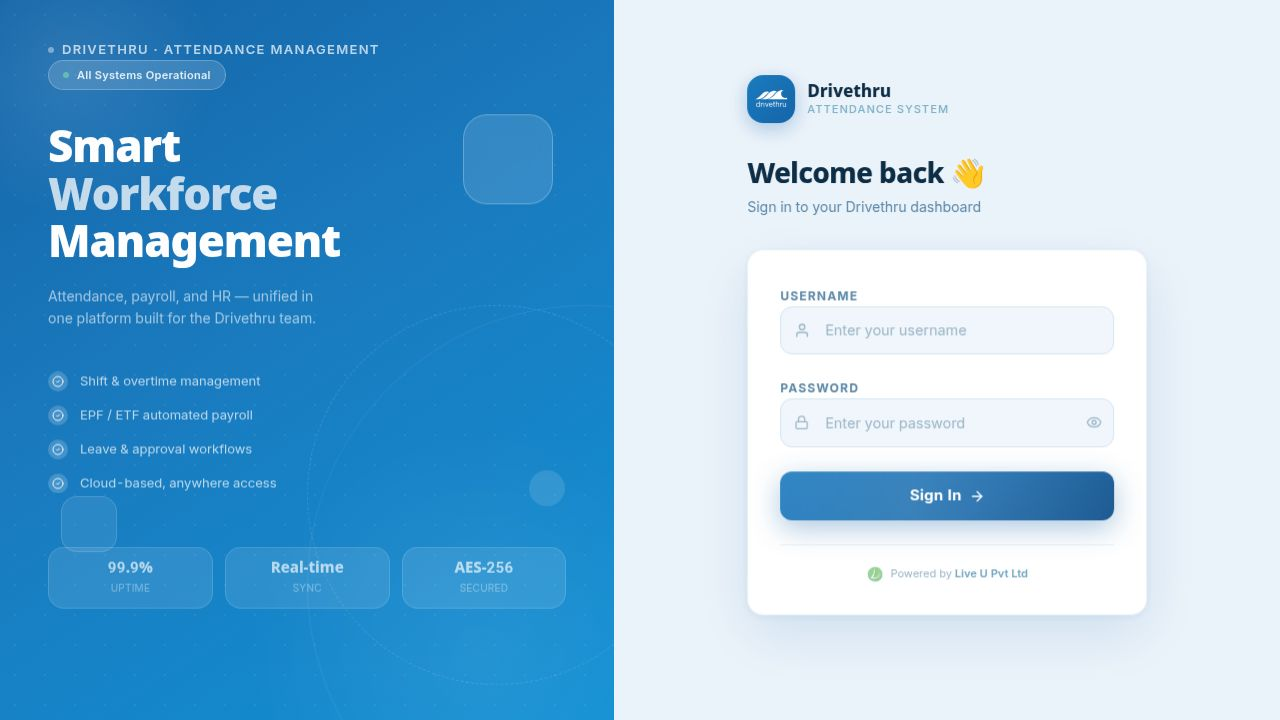
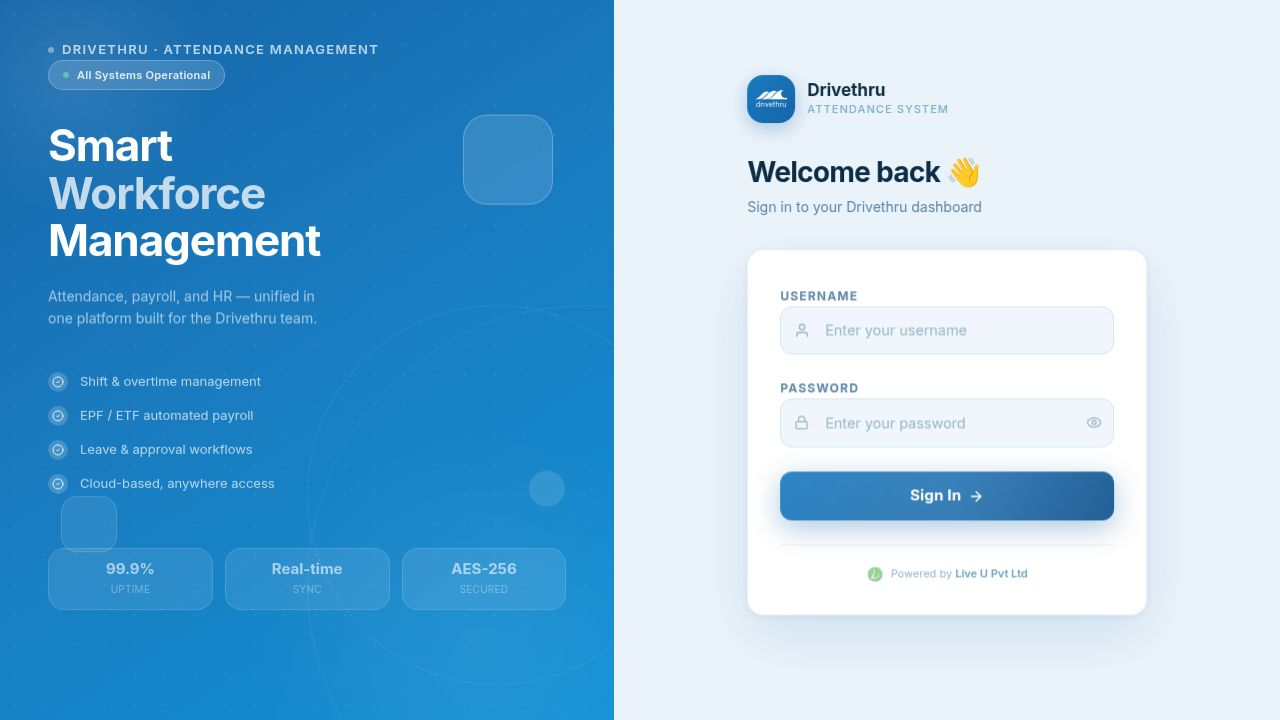
Remove HR settings and related functionalities from the application
Removes the HR Settings route, sidebar link, API calls in Reports.tsx, and the HR Settings tab from Settings.tsx.

Replit-Commit-Author: Agent
Replit-Commit-Session-Id: 4d8bc545-102c-4f4f-b6de-ef1abe7a834d
Replit-Commit-Checkpoint-Type: full_checkpoint
Replit-Commit-Event-Id: 80b1a011-82af-44d9-b6bc-32ab3e73e620
Replit-Commit-Screenshot-Url: https://storage.googleapis.com/screenshot-production-us-central1/8489a567-6b9f-4b51-adf8-31ab7533d77d/4d8bc545-102c-4f4f-b6de-ef1abe7a834d/11jR3Gs
Replit-Helium-Checkpoint-Created: true

diff --git a/artifacts/attendance/src/pages/settings/Settings.tsx b/artifacts/attendance/src/pages/settings/Settings.tsx
@@ -269,7 +269,6 @@ export default function Settings() {
 
   useEffect(() => {
     if (activeTab === "database") { loadDbStats(); }
-    if (activeTab === "hr") { loadDeptRules(); }
   }, [activeTab]);
 
   const serverUrl = `${window.location.origin}/api/biometric/push`;
@@ -431,241 +430,6 @@ export default function Settings() {
           </Card>
         )}
 
-        {/* ── HR Settings ───────────────────────────────────── */}
-        {activeTab === "hr" && (
-          <div className="space-y-4">
-            <Card className="p-5">
-              <div className="flex items-center justify-between mb-4 pb-3 border-b border-border">
-                <div className="flex items-center gap-2">
-                  <Users className="w-4 h-4 text-violet-600" />
-                  <span className="text-sm font-bold">Department Shift Rules</span>
-                  <span className="text-xs text-muted-foreground ml-1">— per-department attendance & OT configuration</span>
-                </div>
-                <div className="flex items-center gap-2">
-                  {deptRulesError && <span className="text-xs text-red-600">{deptRulesError}</span>}
-                  {deptRulesSaved && <span className="text-xs text-emerald-600 flex items-center gap-1"><Check className="w-3 h-3" />Saved</span>}
-                  {deptRulesSaving && <span className="text-xs text-muted-foreground">Saving…</span>}
-                  <Button className="flex items-center gap-1.5 text-xs h-8 bg-primary text-primary-foreground" onClick={openAddRule}>
-                    <Plus className="w-3.5 h-3.5" />Add Rule
-                  </Button>
-                </div>
-              </div>
-
-              {deptRulesLoading ? (
-                <div className="flex items-center justify-center h-20">
-                  <div className="animate-spin rounded-full h-6 w-6 border-b-2 border-primary" />
-                </div>
-              ) : (
-                <div className="overflow-x-auto">
-                  <table className="w-full text-xs min-w-[900px]">
-                    <thead>
-                      <tr className="border-b border-border bg-muted/40">
-                        {["Department","Shift","Min h","Max h","OT?","OT After","Grace","Lunch (hrs)","Flex","Multi Login","OT ×","Offday ×","Notes",""].map(h => (
-                          <th key={h} className="text-left px-3 py-2 font-semibold text-muted-foreground whitespace-nowrap">{h}</th>
-                        ))}
-                      </tr>
-                    </thead>
-                    <tbody>
-                      {deptRules.map((rule, i) => (
-                        <tr key={rule.id} className={`border-b border-border/50 hover:bg-muted/30 transition-colors ${i % 2 === 0 ? "" : "bg-muted/10"}`}>
-                          <td className="px-3 py-2 font-medium text-foreground whitespace-nowrap">{rule.department}</td>
-                          <td className="px-3 py-2 text-muted-foreground whitespace-nowrap">{rule.shift}</td>
-                          <td className="px-3 py-2 text-center">{rule.minHours}</td>
-                          <td className="px-3 py-2 text-center">{rule.maxHours ?? <span className="text-muted-foreground">—</span>}</td>
-                          <td className="px-3 py-2 text-center">
-                            <span className={`px-1.5 py-0.5 rounded text-[10px] font-semibold ${rule.otEligible ? "bg-emerald-100 text-emerald-700" : "bg-slate-100 text-slate-500"}`}>
-                              {rule.otEligible ? "Yes" : "No"}
-                            </span>
-                          </td>
-                          <td className="px-3 py-2 text-center">{rule.otAfterHours != null ? `${rule.otAfterHours}h` : <span className="text-muted-foreground">—</span>}</td>
-                          <td className="px-3 py-2 text-center">{rule.lateGraceMinutes != null ? `${rule.lateGraceMinutes} min` : <span className="text-muted-foreground">No</span>}</td>
-                          <td className="px-3 py-2 text-center">
-                            {rule.lunchMinHours != null
-                              ? (rule.lunchMaxHours != null && rule.lunchMaxHours !== rule.lunchMinHours ? `${rule.lunchMinHours}–${rule.lunchMaxHours}` : `${rule.lunchMinHours}`)
-                              : <span className="text-muted-foreground">—</span>}
-                          </td>
-                          <td className="px-3 py-2 text-center">
-                            <span className={`px-1.5 py-0.5 rounded text-[10px] font-semibold ${rule.flexible ? "bg-blue-100 text-blue-700" : "bg-slate-100 text-slate-500"}`}>
-                              {rule.flexible ? "Yes" : "No"}
-                            </span>
-                          </td>
-                          <td className="px-3 py-2 text-center">
-                            <span className={`px-1.5 py-0.5 rounded text-[10px] font-semibold ${rule.multipleLogin ? "bg-blue-100 text-blue-700" : "bg-slate-100 text-slate-500"}`}>
-                              {rule.multipleLogin ? "Yes" : "No"}
-                            </span>
-                          </td>
-                          <td className="px-3 py-2 text-center">{rule.otMultiplier != null ? `${rule.otMultiplier}×` : <span className="text-muted-foreground">—</span>}</td>
-                          <td className="px-3 py-2 text-center">{rule.offdayOtMultiplier != null ? `${rule.offdayOtMultiplier}×` : <span className="text-muted-foreground">—</span>}</td>
-                          <td className="px-3 py-2 text-muted-foreground max-w-[120px] truncate">{rule.notes || "—"}</td>
-                          <td className="px-3 py-2">
-                            <div className="flex items-center gap-1">
-                              <button onClick={() => openEditRule(rule)} className="p-1 rounded hover:bg-primary/10 text-primary transition-colors">
-                                <Edit2 className="w-3.5 h-3.5" />
-                              </button>
-                              <button onClick={() => deleteRule(rule.id)} className="p-1 rounded hover:bg-red-50 text-red-500 transition-colors">
-                                <Trash2 className="w-3.5 h-3.5" />
-                              </button>
-                            </div>
-                          </td>
-                        </tr>
-                      ))}
-                      {deptRules.length === 0 && (
-                        <tr>
-                          <td colSpan={14} className="px-3 py-8 text-center text-muted-foreground text-xs">
-                            No department rules yet. Click "Add Rule" to create one.
-                          </td>
-                        </tr>
-                      )}
-                    </tbody>
-                  </table>
-                </div>
-              )}
-            </Card>
-
-            {/* Add / Edit Rule Modal */}
-            {showRuleModal && (
-              <div className="fixed inset-0 z-50 flex items-center justify-center bg-black/40 backdrop-blur-sm p-4">
-                <div className="bg-card rounded-2xl shadow-2xl w-full max-w-2xl max-h-[90vh] overflow-y-auto border border-border">
-                  <div className="flex items-center justify-between p-5 border-b border-border">
-                    <div className="flex items-center gap-2">
-                      <Users className="w-4 h-4 text-violet-600" />
-                      <span className="font-bold text-sm">{ruleModalMode === "add" ? "Add" : "Edit"} Department Rule</span>
-                    </div>
-                    <button onClick={() => setShowRuleModal(false)} className="p-1.5 rounded-lg hover:bg-muted transition-colors">
-                      <X className="w-4 h-4" />
-                    </button>
-                  </div>
-
-                  <div className="p-5 space-y-4">
-                    {/* Identity */}
-                    <div className="grid grid-cols-2 gap-4">
-                      <div>
-                        <Label className="text-xs font-medium mb-1 block">Department *</Label>
-                        <Input value={editingRule.department} onChange={e => setER("department", e.target.value)} placeholder="e.g. Kitchen" />
-                      </div>
-                      <div>
-                        <Label className="text-xs font-medium mb-1 block">Shift *</Label>
-                        <Input value={editingRule.shift} onChange={e => setER("shift", e.target.value)} placeholder="e.g. Kitchen Shift" />
-                      </div>
-                    </div>
-
-                    {/* Hours */}
-                    <div className="grid grid-cols-2 gap-4">
-                      <div>
-                        <Label className="text-xs font-medium mb-1 block">Min Hours / Day</Label>
-                        <Input type="number" step="0.5" min="0" value={editingRule.minHours} onChange={e => setER("minHours", parseFloat(e.target.value) || 0)} />
-                      </div>
-                      <div>
-                        <Label className="text-xs font-medium mb-1 block">Max Hours / Day <span className="text-muted-foreground font-normal">(blank = unlimited)</span></Label>
-                        <Input type="number" step="0.5" min="0"
-                          value={editingRule.maxHours ?? ""}
-                          onChange={e => setER("maxHours", e.target.value === "" ? null : parseFloat(e.target.value))}
-                          placeholder="—" />
-                      </div>
-                    </div>
-
-                    {/* OT */}
-                    <div className="grid grid-cols-3 gap-4">
-                      <div>
-                        <Label className="text-xs font-medium mb-1 block">OT Eligible</Label>
-                        <Select value={editingRule.otEligible ? "yes" : "no"} onChange={e => setER("otEligible", e.target.value === "yes")}>
-                          <option value="yes">Yes</option>
-                          <option value="no">No</option>
-                        </Select>
-                      </div>
-                      <div>
-                        <Label className="text-xs font-medium mb-1 block">OT After (hours) <span className="text-muted-foreground font-normal">(blank = N/A)</span></Label>
-                        <Input type="number" step="0.5" min="0"
-                          value={editingRule.otAfterHours ?? ""}
-                          onChange={e => setER("otAfterHours", e.target.value === "" ? null : parseFloat(e.target.value))}
-                          placeholder="—" />
-                      </div>
-                      <div>
-                        <Label className="text-xs font-medium mb-1 block">OT Multiplier <span className="text-muted-foreground font-normal">(blank = N/A)</span></Label>
-                        <Input type="number" step="0.1" min="0"
-                          value={editingRule.otMultiplier ?? ""}
-                          onChange={e => setER("otMultiplier", e.target.value === "" ? null : parseFloat(e.target.value))}
-                          placeholder="—" />
-                      </div>
-                    </div>
-
-                    {/* Offday OT / Grace */}
-                    <div className="grid grid-cols-2 gap-4">
-                      <div>
-                        <Label className="text-xs font-medium mb-1 block">Offday OT Multiplier <span className="text-muted-foreground font-normal">(blank = N/A)</span></Label>
-                        <Input type="number" step="0.1" min="0"
-                          value={editingRule.offdayOtMultiplier ?? ""}
-                          onChange={e => setER("offdayOtMultiplier", e.target.value === "" ? null : parseFloat(e.target.value))}
-                          placeholder="—" />
-                      </div>
-                      <div>
-                        <Label className="text-xs font-medium mb-1 block">Late Grace (minutes) <span className="text-muted-foreground font-normal">(blank = no grace)</span></Label>
-                        <Input type="number" step="1" min="0"
-                          value={editingRule.lateGraceMinutes ?? ""}
-                          onChange={e => setER("lateGraceMinutes", e.target.value === "" ? null : parseInt(e.target.value))}
-                          placeholder="—" />
-                      </div>
-                    </div>
-
-                    {/* Lunch */}
-                    <div className="grid grid-cols-2 gap-4">
-                      <div>
-                        <Label className="text-xs font-medium mb-1 block">Lunch Min (hrs) <span className="text-muted-foreground font-normal">(blank = N/A)</span></Label>
-                        <Input type="number" step="0.5" min="0"
-                          value={editingRule.lunchMinHours ?? ""}
-                          onChange={e => setER("lunchMinHours", e.target.value === "" ? null : parseFloat(e.target.value))}
-                          placeholder="—" />
-                      </div>
-                      <div>
-                        <Label className="text-xs font-medium mb-1 block">Lunch Max (hrs) <span className="text-muted-foreground font-normal">(blank = same as min)</span></Label>
-                        <Input type="number" step="0.5" min="0"
-                          value={editingRule.lunchMaxHours ?? ""}
-                          onChange={e => setER("lunchMaxHours", e.target.value === "" ? null : parseFloat(e.target.value))}
-                          placeholder="—" />
-                      </div>
-                    </div>
-
-                    {/* Flags */}
-                    <div className="grid grid-cols-2 gap-4">
-                      <div>
-                        <Label className="text-xs font-medium mb-1 block">Flexible Hours</Label>
-                        <Select value={editingRule.flexible ? "yes" : "no"} onChange={e => setER("flexible", e.target.value === "yes")}>
-                          <option value="no">No</option>
-                          <option value="yes">Yes</option>
-                        </Select>
-                      </div>
-                      <div>
-                        <Label className="text-xs font-medium mb-1 block">Multiple Login Allowed</Label>
-                        <Select value={editingRule.multipleLogin ? "yes" : "no"} onChange={e => setER("multipleLogin", e.target.value === "yes")}>
-                          <option value="no">No</option>
-                          <option value="yes">Yes</option>
-                        </Select>
-                      </div>
-                    </div>
-
-                    {/* Notes */}
-                    <div>
-                      <Label className="text-xs font-medium mb-1 block">Notes</Label>
-                      <Input value={editingRule.notes} onChange={e => setER("notes", e.target.value)} placeholder="Any additional notes…" />
-                    </div>
-                  </div>
-
-                  <div className="flex justify-end gap-2 p-5 border-t border-border">
-                    <Button variant="outline" className="text-xs h-9" onClick={() => setShowRuleModal(false)}>Cancel</Button>
-                    <Button
-                      className="text-xs h-9 bg-primary text-primary-foreground flex items-center gap-1.5"
-                      onClick={saveRule}
-                      disabled={!editingRule.department || !editingRule.shift || deptRulesSaving}
-                    >
-                      <Save className="w-3.5 h-3.5" />
-                      {deptRulesSaving ? "Saving…" : ruleModalMode === "add" ? "Add Rule" : "Save Changes"}
-                    </Button>
-                  </div>
-                </div>
-              </div>
-            )}
-          </div>
-        )}
 
         {/* ── Holiday Settings ──────────────────────────────── */}
         {activeTab === "holidays" && (

diff --git a/artifacts/attendance/src/pages/reports/Reports.tsx b/artifacts/attendance/src/pages/reports/Reports.tsx
@@ -60,21 +60,16 @@ function useEmployeeOffDays() {
 }
 
 function useHrRules() {
-  const [rules, setRules] = useState<DeptShiftRule[]>([]);
   const [shifts, setShifts] = useState<{ id: number; name: string }[]>([]);
   useEffect(() => {
     const BASE = import.meta.env.BASE_URL.replace(/\/$/, "");
     const token = localStorage.getItem("auth_token") || "";
     const authOpts = { credentials: "include" as const, headers: { Authorization: `Bearer ${token}` } };
-    Promise.all([
-      fetch(`${BASE}/api/hr-settings`, authOpts).then(r => r.json()),
-      fetch(`${BASE}/api/shifts`, authOpts).then(r => r.json()),
-    ]).then(([hrData, shiftsData]) => {
-      if (Array.isArray(hrData.departmentRules)) setRules(hrData.departmentRules as DeptShiftRule[]);
+    fetch(`${BASE}/api/shifts`, authOpts).then(r => r.json()).then((shiftsData) => {
       if (Array.isArray(shiftsData)) setShifts(shiftsData);
     }).catch(() => {});
   }, []);
-  return { rules, shifts };
+  return { rules: [] as DeptShiftRule[], shifts };
 }
 
 type Tab = "attendance" | "monthly" | "overtime" | "payroll" | "individual";

diff --git a/artifacts/attendance/src/App.tsx b/artifacts/attendance/src/App.tsx
@@ -17,7 +17,7 @@ import Payroll from "@/pages/payroll/Payroll";
 import PayslipPage from "@/pages/payroll/PayslipPage";
 import PayrollSettings from "@/pages/payroll-settings/PayrollSettings";
 import ActivityLogs from "@/pages/activity-logs/ActivityLogs";
-import HRSettings from "@/pages/hr-settings/HRSettings";
+
 import Holidays from "@/pages/holidays/Holidays";
 import Approvals from "@/pages/attendance/Approvals";
 import LeaveBalances from "@/pages/leave/LeaveBalances";
@@ -101,7 +101,6 @@ function Router() {
       <Route path="/biometric"><ProtectedRoute component={Biometric} /></Route>
       <Route path="/settings"><ProtectedRoute component={Settings} /></Route>
       <Route path="/users"><ProtectedRoute component={Users} /></Route>
-      <Route path="/hr-settings"><ProtectedRoute component={HRSettings} /></Route>
       <Route path="/holidays"><ProtectedRoute component={Holidays} /></Route>
       <Route path="/activity-logs"><ProtectedRoute component={ActivityLogs} /></Route>
       <Route path="/loans"><ProtectedRoute component={Loans} /></Route>

diff --git a/artifacts/attendance/src/components/Layout.tsx b/artifacts/attendance/src/components/Layout.tsx
@@ -67,7 +67,7 @@ const NAV_GROUPS: NavGroup[] = [
       { href: "/employees",        label: "Employees",        icon: UserRound   },
       { href: "/payroll",          label: "Payroll",          icon: Wallet      },
       { href: "/payroll-settings", label: "Payroll Settings", icon: Sliders     },
-      { href: "/hr-settings",      label: "HR Settings",      icon: BookOpen    },
+
       { href: "/holidays",         label: "Holidays",         icon: CalendarDays  },
       { href: "/weekoffs",         label: "Week Offs",        icon: CalendarOff   },
       { href: "/leave-balances",   label: "Leave Balances",   icon: CalendarClock },